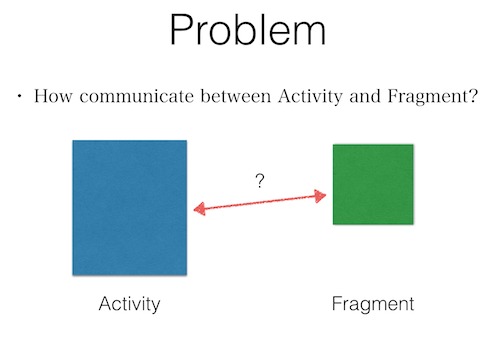
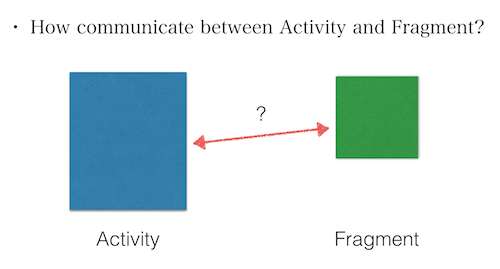
Update README.md.

diff --git a/README.md b/README.md
@@ -1,9 +1,14 @@
 indirect-injector
 =================
-
-[![wercker status](https://app.wercker.com/status/1af8846b7749a90ee2fabd12ebfad71e/m/ "wercker status")](https://app.wercker.com/project/bykey/1af8846b7749a90ee2fabd12ebfad71e)
-
 The indirect-injector simplify confusion of communication between activity and fragment, and dependencies.
+
+[![wercker status](https://app.wercker.com/status/1af8846b7749a90ee2fabd12ebfad71e/s/ "wercker status")](https://app.wercker.com/project/bykey/1af8846b7749a90ee2fabd12ebfad71e)
+
+## Problem
+
+![problem](https://raw.github.com/sys1yagi/indirect-injector/master/art/problem.png)
+
+Yes. Here's the answer.
 
 ## Setup
 
